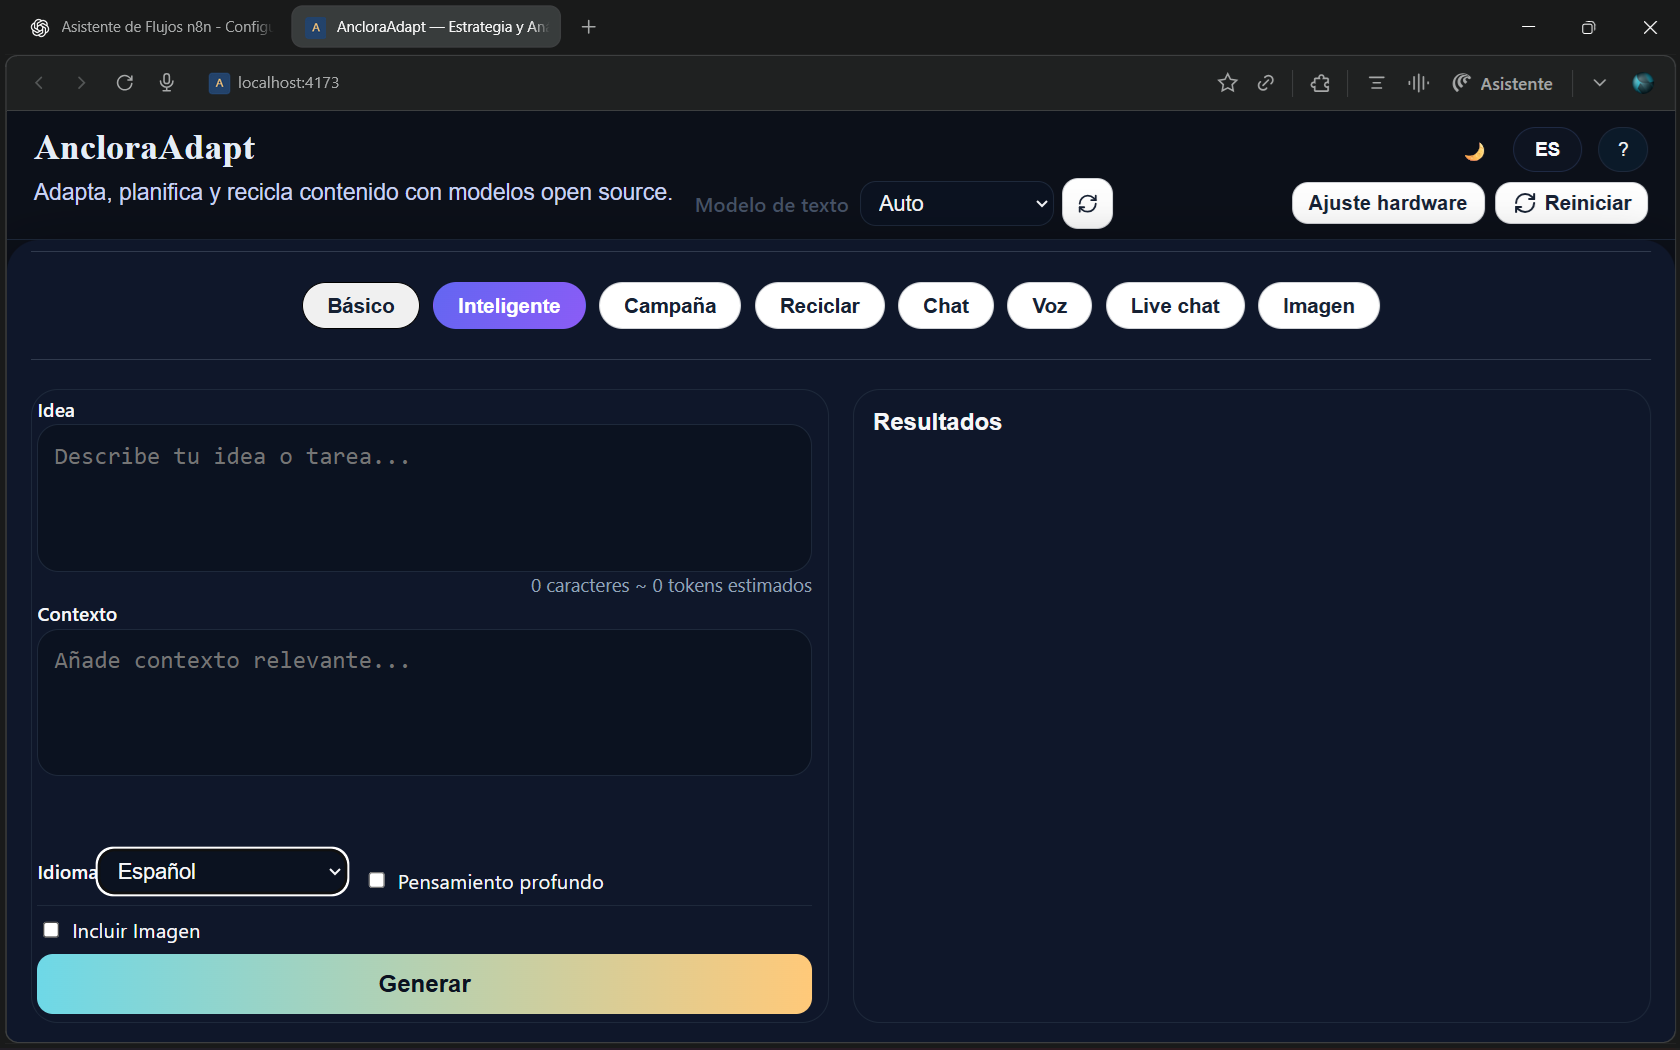
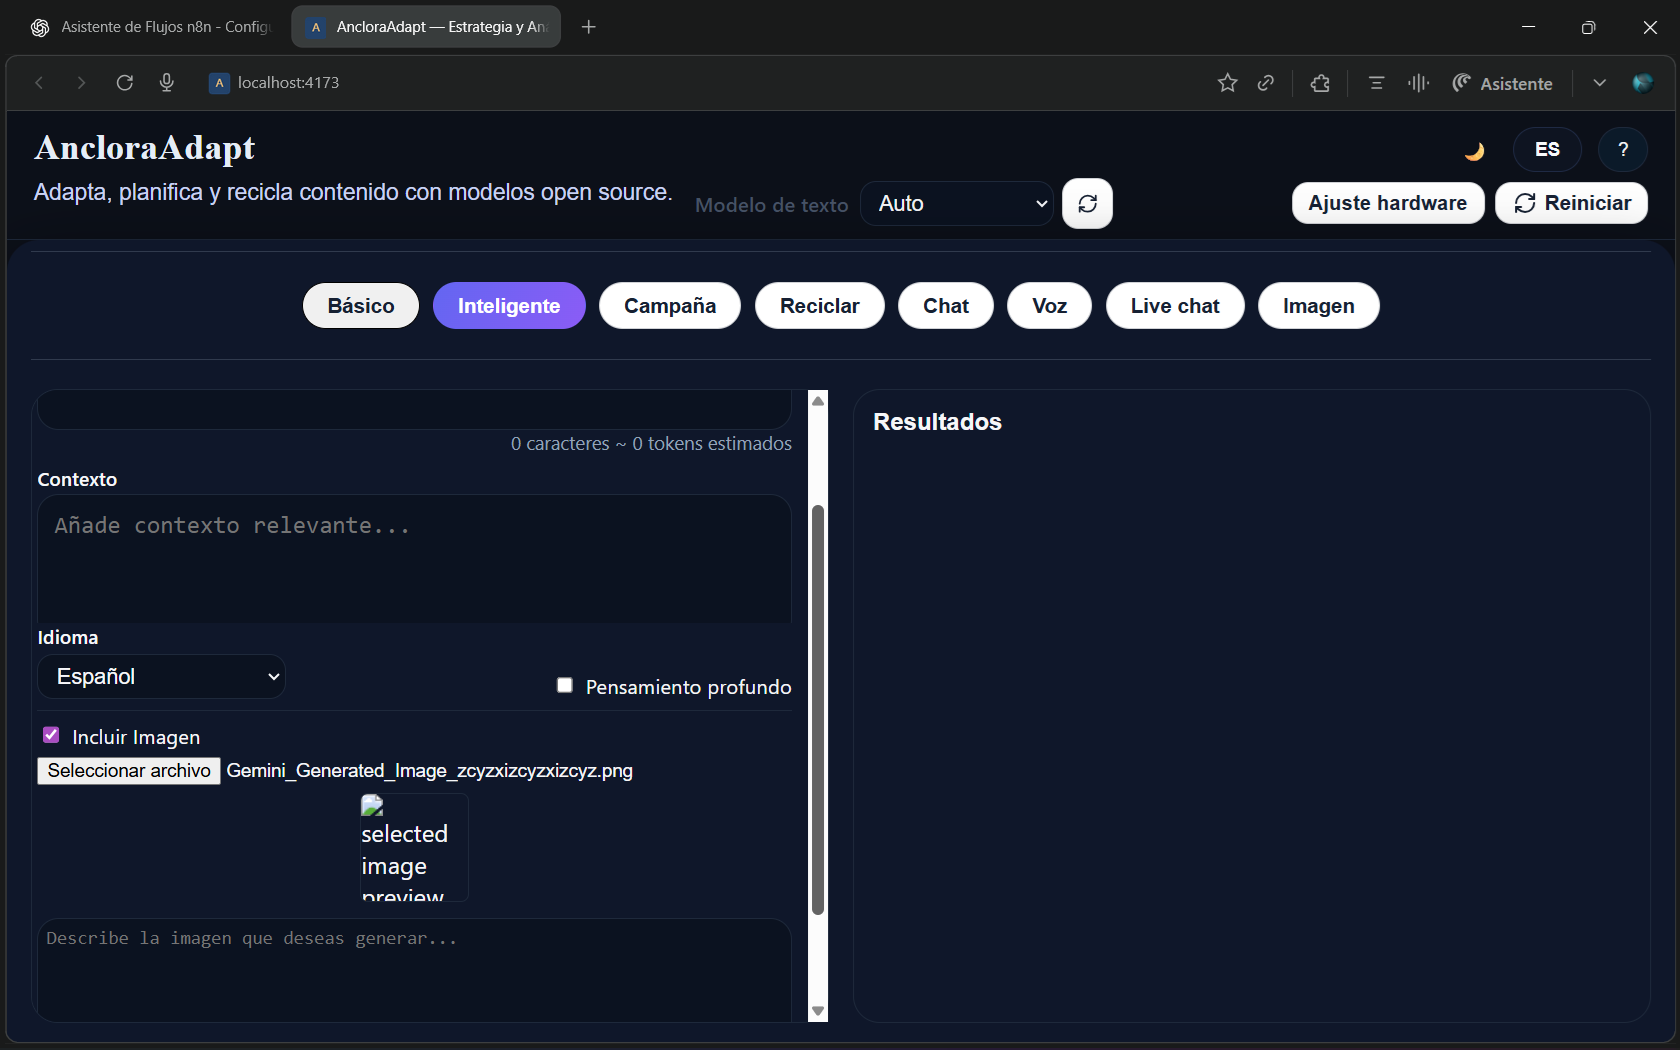
✅ Hecho. Ahora muestra un chip con:   - Thumbnail 40x40px de la imagen   - Nombre del archivo con truncado   - Tamaño en KB   - Botón × para eliminar
Como en tu Captura_1.png.

Changed region(s): [[0.0, 0.3657, 0.4952, 0.9752], [0.0, 0.579, 0.3714, 0.8533], [0.031, 0.4267, 0.2167, 0.5181]]

diff --git a/src/components/modes/IntelligentModeImageOptions.tsx b/src/components/modes/IntelligentModeImageOptions.tsx
@@ -75,32 +75,55 @@ const IntelligentModeImageOptions: React.FC<
                 maxWidth: "100%",
               }}
             />
-            {imagePreview && (
+            {imagePreview && imageFile && (
               <div
                 style={{
                   display: "flex",
-                  justifyContent: "center",
+                  alignItems: "center",
+                  gap: "8px",
                   paddingBottom: "6px",
-                  width: "100%",
+                  padding: "6px 8px",
+                  backgroundColor: "var(--panel-border, #333)",
+                  borderRadius: "6px",
+                  width: "fit-content",
                 }}
               >
                 <img
                   src={imagePreview}
-                  alt="selected image preview"
+                  alt="preview"
                   style={{
-                    maxWidth: "80px",
-                    maxHeight: "80px",
-                    width: "auto",
-                    height: "auto",
-                    objectFit: "contain",
-                    borderRadius: "6px",
-                    border: "1px solid var(--panel-border, #646464)",
-                    display: "block",
-                  }}
-                  onError={(e) => {
-                    console.error("Image failed to load:", e);
+                    width: "40px",
+                    height: "40px",
+                    objectFit: "cover",
+                    borderRadius: "4px",
                   }}
                 />
+                <div style={{ fontSize: "0.85em", flex: 1, minWidth: "100px" }}>
+                  <div style={{ whiteSpace: "nowrap", overflow: "hidden", textOverflow: "ellipsis" }}>
+                    {imageFile.name}
+                  </div>
+                  <div style={{ fontSize: "0.75em", opacity: 0.7 }}>
+                    {(imageFile.size / 1024).toFixed(1)} KB
+                  </div>
+                </div>
+                <button
+                  style={{
+                    background: "none",
+                    border: "none",
+                    color: "inherit",
+                    cursor: "pointer",
+                    fontSize: "1.2em",
+                    padding: "0",
+                    opacity: 0.7,
+                  }}
+                  onClick={() => {
+                    const input = document.querySelector('input[type="file"]') as HTMLInputElement;
+                    if (input) input.value = "";
+                  }}
+                  title="Eliminar imagen"
+                >
+                  ×
+                </button>
               </div>
             )}
           </div>
